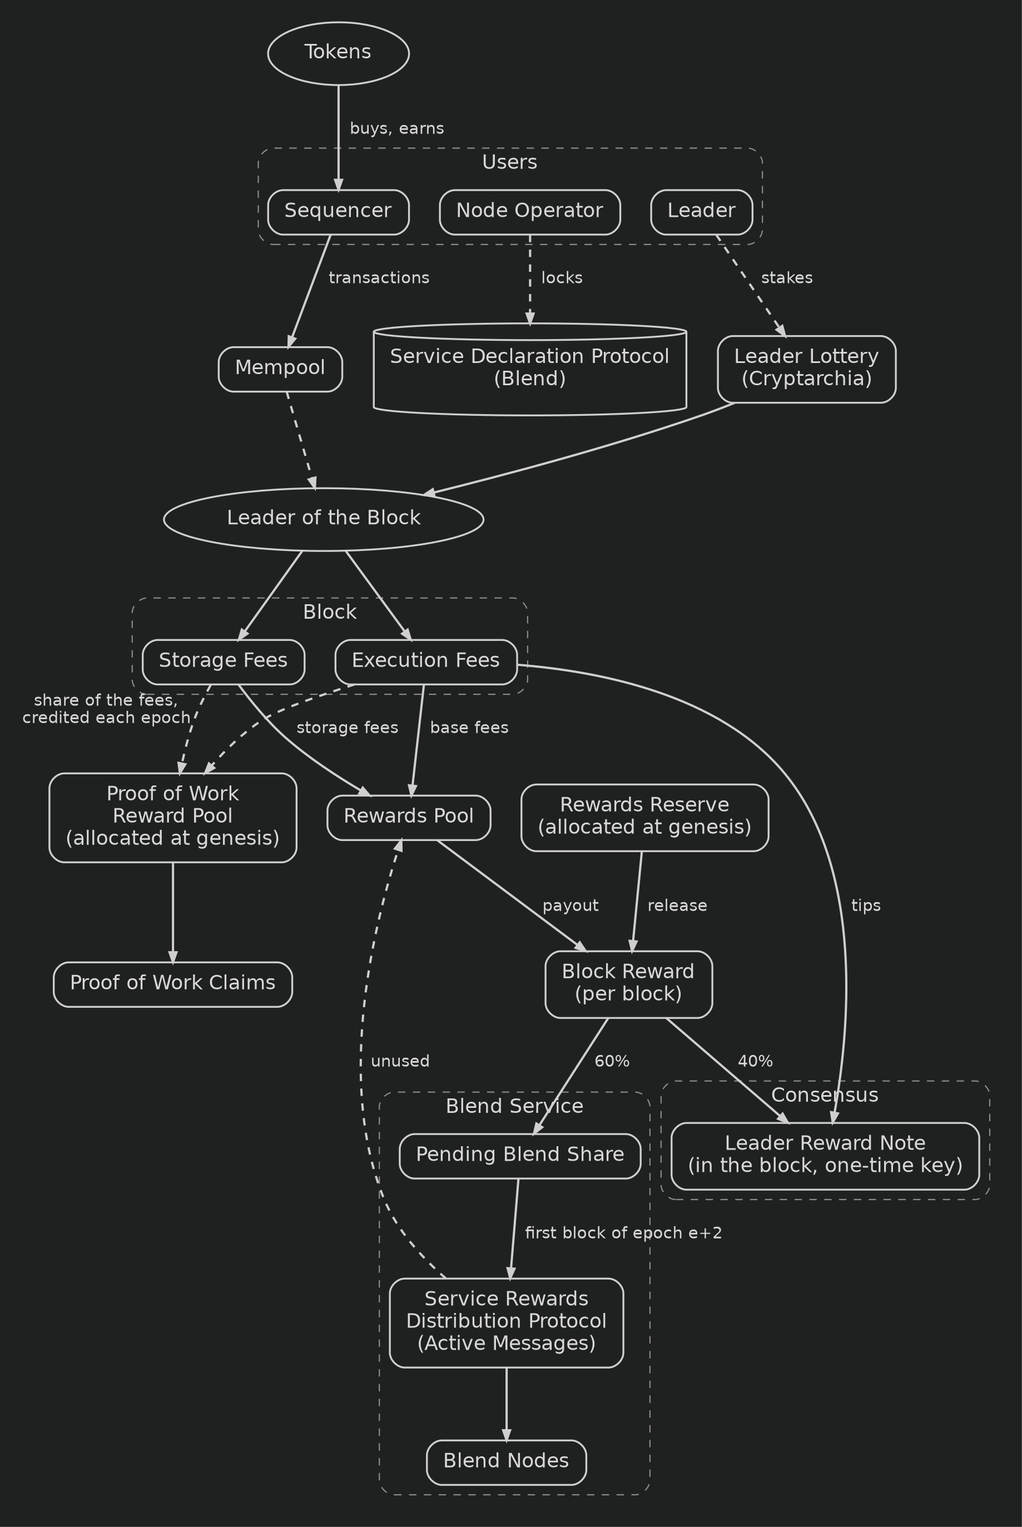
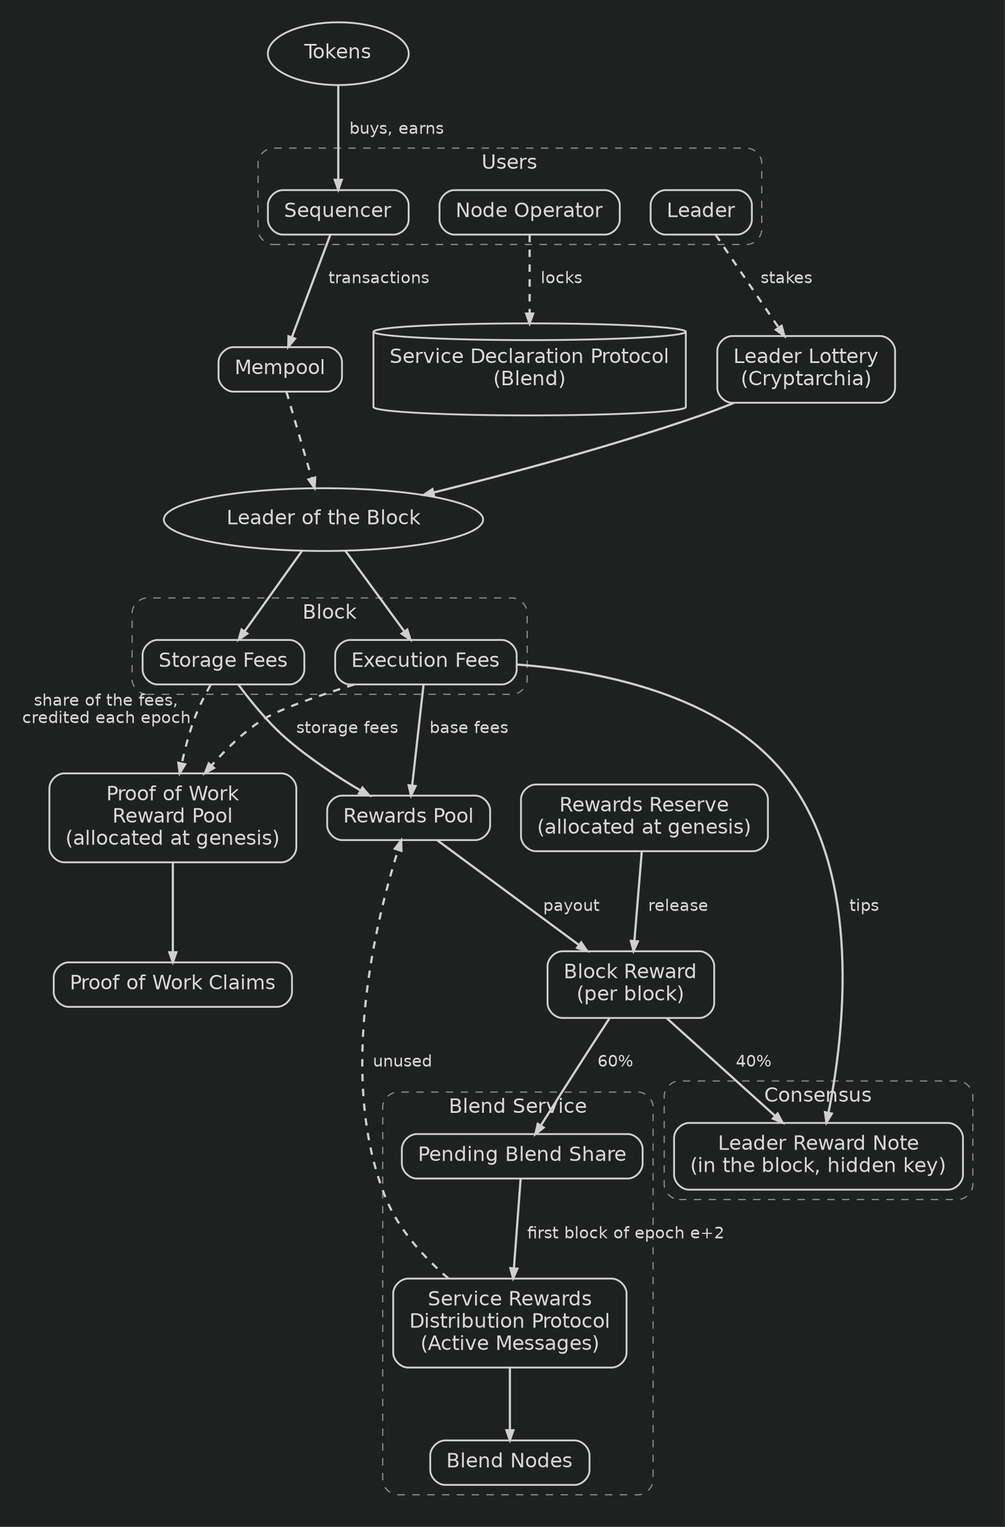
docs(blockchain): the reward commitment hides its key under an unpredictable nonce, and condemns only a confirmed body

diff --git a/docs/blockchain/raw/rfc/RFC-480-mantle-private-utxo-ledger.md b/docs/blockchain/raw/rfc/RFC-480-mantle-private-utxo-ledger.md
@@ -20,7 +20,7 @@
 | v12 | Builds on #503: every amount counts LEPTA, the token is LOGOS, the Block Rewards reference types its constants as 128-bit integers, and the revisions of Block Rewards, the Cryptoeconomics Overview and Total Stake Inference are renumbered past its own. The `zk_id` is a unique one-time random key, which the declaration does not prove | 2026-11-03 |
 | v13 | The Proof of Quota leader branch proves the note unspent at the freeze of the stake distribution. Genesis declarations consume no note, and Genesis checks the supply. A block above $`G_\text{max}`$ is invalid, and a proposal confirms its body root before verifying its uncles. A note set records its root only when a block appends to it, and every block records the eligible root. The Blend shares of the closed and of the current epoch are kept apart, what an epoch does not distribute returning to the reserve. `step_msg` hashes the channel, and the claim ticket has a DST | 2026-11-03 |
 | v14 | An inscription is a list of mini-blocks of steps, each step proven against its recent root and the buffer before its mini-block, in place of a `buffered` count on each step | 2026-11-04 |
-| v15 | The commitment and nullifier names are written in full, so that the root an Operation references is `commitment_root`, a note has a `NoteCommitment` and a `NoteNullifier`, and each notation is explained where it first appears. The message of a step holds the channel ID as two elements, its low and high 16 bytes, so that no two channels share a message. The overview figure shows the sequencer and the proof of work reward pool allocated at genesis. A declaration names in `note_pk` the key of its service note, which only builds the commitment, so that the stake can sit under a key the staker keeps offline. The Proof of Leadership derives the commitment of the leader reward note from the public `reward_value` and a private key and nonce the leader chooses freely, so that keys can be reused without losing funds or linking blocks: the header holds `reward_commitment` and `reward_value` and is 273 bytes, the proof verifies from the header alone, a value differing from the computed reward condemns the block, and a nonce derived from the secret key and the slot lets a wallet find its reward notes from its seed. A nonce that is public was rejected, since it would let anyone test a known key against the commitment | 2026-11-04 |
+| v15 | The commitment and nullifier names are written in full, so that the root an Operation references is `commitment_root`, a note has a `NoteCommitment` and a `NoteNullifier`, and each notation is explained where it first appears. The message of a step holds the channel ID as two elements, its low and high 16 bytes, so that no two channels share a message. The overview figure shows the sequencer and the proof of work reward pool allocated at genesis. A declaration names in `note_pk` the key of its service note, which only builds the commitment, so that the stake can sit under a key the staker keeps offline. The Proof of Leadership derives the commitment of the leader reward note from the public `reward_value` and a private key and nonce the leader chooses freely, so that keys can be reused without losing funds or linking blocks: the header holds `reward_commitment` and `reward_value` and is 273 bytes, the proof verifies from the header alone, a value differing from the computed reward condemns the block, and a nonce derived from the secret key and the slot lets a wallet find its reward notes from its seed. A nonce that is public was rejected, since anyone holding a key could test it against the commitment | 2026-11-04 |
 
 ## Reviewer Orientation
 
@@ -74,11 +74,11 @@ The `note_pk` only builds the commitment of the service note: no check reads it 
 
 The reward note of a block carries the block's own value and still does not link the leader to its spending: the spend reveals a nullifier and no commitment. The voucher set, the pooled leader reward and `LEADER_CLAIM` are retired. The block reward keeps averaging the pooled fees over the last 120 blocks, so a leader can barely steer its own reward with the fees it pays in its block. Every reward value is public and an `SDP_DECLARE` publishes the amount it stakes, so staking reward notes can link the blocks they were won in to the declaration.
 
-The Proof of Leadership derives the commitment of the reward note, and the header reveals only its value. A key and a nonce in the clear would force a wallet to manage a new key for every block: with a fixed nonce, reusing a key gives two rewards of the same value the same commitment, of which only one can be spent, and funds are lost. With the key and the nonce private, a leader can keep one key for all its rewards, which makes the wallet much simpler, and the chain does not show it. The value says nothing of the leader, since every node computes the reward.
+The Proof of Leadership derives the commitment of the reward note, and the header reveals only its value. A key and a nonce in the clear would force a wallet to manage a new key for every block: with a fixed nonce, reusing a key gives two rewards of the same value the same commitment, of which only one can be spent, and funds are lost. With the key private and the nonce private and unpredictable, a leader can keep one key for all its rewards, which makes the wallet much simpler, and the chain does not show it. The value says nothing of the leader, since every node computes the reward.
 
 The value sits in the header so that the proof verifies from the header alone, before the block is reconstructed and in a batch. It is still compared with the computed reward once the transactions have run, and a difference condemns the block, since `block_id` covers both the value and the transactions. The leader has to know the reward before proving, which is acceptable because it already proves once the body is fixed.
 
-The leader selects the nonce completely freely, and a repeated commitment is its own risk. The Wallet Technical Standard recommends deriving the nonce from the secret key and the slot, which gives each reward its own nonce and lets a wallet recovering from its seed recompute its commitments from the public values. Two public nonces were rejected: the slot, and a nonce from the entropy contribution revealed in the header. Either gives every note a distinct commitment, but with a public value and a public nonce anyone can test a known public key against a commitment, so a reused key would link its blocks. Binding the key to the note that won the lottery was not needed either: the circuit leaves the reward key unconstrained, so a leader can be paid under a key whose secret stays offline.
+The leader selects the nonce completely freely, and a repeated commitment is its own risk. The Wallet Technical Standard recommends deriving the nonce from the secret key and the slot, which gives each reward its own nonce and lets a wallet recovering from its seed recompute its commitments from the public values. Two public nonces were rejected: the slot, and a nonce from the entropy contribution revealed in the header. Either gives every note a distinct commitment, but with a public value and a public nonce, anyone holding a public key can test it against a commitment, so a reused key links its blocks for whoever has that key. Binding the key to the note that won the lottery was not needed either: the circuit leaves the reward key unconstrained, so a leader can be paid under a key whose secret stays offline.
 
 The proof of work claim stays as it is: it has no proof that could hide a key, so the miner throws away the mined key and transfers at once to a key it knows.
 

diff --git a/docs/blockchain/raw/bedrock-v1.1-block-construction.md b/docs/blockchain/raw/bedrock-v1.1-block-construction.md
@@ -373,7 +373,7 @@ The order is constrained as well as economical. [Block Header Validation](crypta
 
 If any of the above checks fail, the block proposal must be rejected. What the rejection establishes depends on which bytes the failed check read. `block_id` is computed from the 273-byte header without its proof of leadership, so the proof and every byte outside the header — `uncle_headers`, `references`, trailing bytes — can be altered in a copy without changing the `block_id` it names, and none of the bytes outside the header are authenticated until `header.body_root` is confirmed in step 3. A failure detected in them is a property of the received copy, not of the block: a frame that does not decode (step 1), an invalid proof of leadership (step 2) and a failure to reconstruct (step 3) each discard the copy **without** recording a verdict against `block_id`, on this path as on [every other](cryptarchia-v1-protocol.md#block-header-validation). Only a failure implied by the bytes that `block_id` covers, directly or through `header.body_root` (a wrong version, a slot that does not follow the parent, an invalid uncle entry, a `reward_value` differing from the computed reward), condemns the block the header names, identically at every node. Treating any of the former as final would let an attacker censor a genuine block by circulating tampered copies of it: one altered proof, one substituted uncle entry, or one altered reference, leaves `block_id` unchanged. The mempool-dependence of step 3 adds one further distinction — a reference that fails to resolve locally may resolve at another node — described in [Reference Resolution](#reference-resolution). Independently of what a rejection establishes about the block, **nothing of the proposal is executed**. The state progression the pass builds is a working one, adopted as the new chain state only once the last transaction of the block has validated and the leader reward has been found equal to `reward_value`: a single failed check anywhere in the block, in any transaction, in any Operation of any transaction, invalidates the whole block, so a node rejecting it holds exactly the state it held before it started processing it.
 
-This ordering is specific to the proposal path. A block received in full through chain synchronisation carries its transactions from the start, so [Block Header Validation](cryptarchia-v1-protocol.md#block-header-validation) applies to it as written, with no ordering constraint, step 6 to its transactions and step 7 to its leader reward.
+This ordering is specific to the proposal path. A block received in full through chain synchronisation carries its transactions from the start, so [Block Header Validation](cryptarchia-v1-protocol.md#block-header-validation) applies to it as written, with no ordering constraint, step 6 to its transactions and step 7 to its leader reward. Step 7 condemns the block only once rule 4 has confirmed its body: transactions that do not reproduce `header.body_root` are a bad copy whatever reward they compute, so a peer serving a genuine header with a transaction dropped cannot get the genuine `block_id` condemned.
 
 ## Block Execution
 
@@ -393,7 +393,7 @@ Given a `ValidBlock` that has successfully passed proposal validation, the node 
 
 Steps 1 and 2 read the epoch, the slot and the state of the [Service Declaration Protocol](bedrock-service-declaration-protocol.md) and of the pending withdrawals, never the transactions of the block, which is what lets them run before those transactions are validated.
 
-The leader reward of step 4 is the one defined in [Blend Service and Consensus Leaders](overview-cryptoeconomics.md#blend-service-and-consensus-leaders), computed from the [Block Rewards](block-rewards.md) of the block and the Execution market tips of its transactions, which is why it comes after them. It is paid as a single note, `Note(reward_value, reward_nonce, reward_public_key)`, whose commitment is the `reward_commitment` of the block: the [Proof of Leadership](cryptarchia-proof-of-leadership.md#leader-reward-note) proves that the commitment opens to `reward_value` and to a key and a nonce only the leader knows. The commitment is appended to the ledger note set, `LEDGER_SET`, of the [Mantle Ledger](bedrock-v1.1-mantle-specification.md#ledger):
+The leader reward of step 4 is the one defined in [Blend Service and Consensus Leaders](overview-cryptoeconomics.md#blend-service-and-consensus-leaders), computed from the [Block Rewards](block-rewards.md) of the block and the Execution market tips of its transactions, which is why it comes after them. It is paid as a single note, `Note(reward_value, reward_nonce, reward_public_key)`, whose commitment is the `reward_commitment` of the block: the [Proof of Leadership](cryptarchia-proof-of-leadership.md#leader-reward-note) proves that the commitment opens to `reward_value` and to a key and a nonce the block does not reveal. The commitment is appended to the ledger note set, `LEDGER_SET`, of the [Mantle Ledger](bedrock-v1.1-mantle-specification.md#ledger):
 
 ```python
 assert block.header.proof_of_leadership.reward_value == get_leader_reward(block)
@@ -402,7 +402,7 @@ ledger.sets[LEDGER_SET].execute_adding([block.header.proof_of_leadership.reward_
 
 The block reveals the value of the reward and its commitment, and neither its public key nor its nonce. Spending the note reveals neither its commitment nor its value, so the leader cannot be linked to the block through its reward, as long as the leader does not publish its value. An `SDP_DECLARE` publishes the amount it stakes, the sum of the notes it consumes, and every reward value is public: staking reward notes, alone or with notes of known value, can link the blocks they were won in to the declaration.
 
-The leader chooses `reward_public_key` and `reward_nonce` freely, and can reuse a key for any number of blocks without linking them, since the commitment hides it. Two rewards of the same value under the same key and nonce are identical notes, of which only one can be spent ([Note Commitment and Nullifier](bedrock-v1.1-mantle-specification.md#note-commitment-and-nullifier)), and they show as a repeated commitment. Avoiding this is up to the leader, and the [Wallet Technical Standard](wallet-technical-standard.md#leader-reward-notes) recommends a nonce that does.
+The leader chooses `reward_public_key` and `reward_nonce` freely. The commitment hides the key as long as the nonce is private and unpredictable, and a leader can then reuse a key for any number of blocks without linking them. Two rewards of the same value under the same key and nonce are identical notes, of which only one can be spent ([Note Commitment and Nullifier](bedrock-v1.1-mantle-specification.md#note-commitment-and-nullifier)), and they show as a repeated commitment. Avoiding this is up to the leader, and the [Wallet Technical Standard](wallet-technical-standard.md#leader-reward-notes) recommends a nonce that does.
 
 The five steps stand or fall together, on a block that has validated in full: a block that fails validation at any point is not executed at all.
 

diff --git a/docs/blockchain/raw/cryptarchia-proof-of-leadership.md b/docs/blockchain/raw/cryptarchia-proof-of-leadership.md
@@ -241,7 +241,7 @@ def pol_msg(header: Header) -> zkhash:
 The leader reward of a block is paid as a note the proof derives the commitment of ([Block Execution](bedrock-v1.1-block-construction.md#block-execution)), so that the block names the note without revealing who holds it.
 
 - `reward_value` and `reward_commitment` are public, in the header. The value says nothing of the leader, since every node computes the reward of a block.
-- `reward_public_key` and `reward_nonce` stay private. The commitment hides them, so the chain shows neither the key a reward is paid to nor whether two blocks pay the same key. The nonce has to stay private for this to hold: given the public value and a public nonce, anyone could test a known public key against the commitment.
+- `reward_public_key` and `reward_nonce` are not revealed. As long as the nonce is private and unpredictable, the commitment hides the key, so the chain shows neither the key a reward is paid to nor whether two blocks pay the same key. Given the public value and a nonce they can guess, anyone holding a public key can test it against the commitment.
 - `reward_value` is in the header so that the proof verifies from the header alone, before the block is reconstructed and in a batch with other proofs of leadership. It is compared with the computed reward once the transactions have run ([Block Proposal Validation](bedrock-v1.1-block-construction.md#block-proposal-validation)), and a block whose value differs from its reward is invalid whatever its proof says.
 - `reward_value` needs no range check in the circuit. It is read from 8 bytes of the header, so it is below $`2^{64}`$, and a note enters the ledger only with the value of the computed reward.
 - The circuit does not constrain `reward_public_key` and `reward_nonce`, which the leader chooses freely. A key can be reused for any number of blocks. Two rewards of the same value under the same key and nonce are identical notes, of which only one can be spent, which is the risk of the leader alone. The [Wallet Technical Standard](wallet-technical-standard.md#leader-reward-notes) recommends a nonce that avoids it.

diff --git a/docs/blockchain/raw/cryptarchia-v1-protocol.md b/docs/blockchain/raw/cryptarchia-v1-protocol.md
@@ -456,7 +456,7 @@ We say $`\textbf{valid\_header}(B)`$ returns True if all of the following constr
 
   Every input to these checks comes from the chain of $`B`$ or from the carried entry itself, both of which any node validating $`B`$ necessarily has — the entries travel inside $`B`$ and are committed by its $`body\_root`$. Validity is therefore a function of the block and the chain it extends alone, so all nodes agree on it and an adversary influencing what nodes know of forks cannot influence block inclusion.
 
-The block ID commits neither to the proof of leadership of a block nor to its Operation proofs, and a copy of a block can differ in them or in its body. A block failing rule 4, rule 9 or an Operation proof is therefore a bad copy on every path, synchronization included: the node discards it without recording a verdict against its block ID. The block ID does commit to `reward_value` and, through $`body\_root`$, to the transactions, so a block whose `reward_value` differs from its computed leader reward is condemned ([Block Proposal Validation](bedrock-v1.1-block-construction.md#block-proposal-validation)).
+The block ID commits neither to the proof of leadership of a block nor to its Operation proofs, and a copy of a block can differ in them or in its body. A block failing rule 4, rule 9 or an Operation proof is therefore a bad copy on every path, synchronization included: the node discards it without recording a verdict against its block ID. The block ID does commit to `reward_value` and, through $`body\_root`$, to the transactions, so once rule 4 has confirmed its body, a block whose `reward_value` differs from its computed leader reward is condemned ([Block Proposal Validation](bedrock-v1.1-block-construction.md#block-proposal-validation)).
 
 ### Chain Maintenance
 

diff --git a/docs/blockchain/raw/blend-protocol.md b/docs/blockchain/raw/blend-protocol.md
@@ -39,7 +39,7 @@
 | 1.6.2 | The node count and the neighbor distinction read the `provider_id`s of the Blend declarations, which the Service Declaration Protocol keeps unique | 2026-10-27 |
 | 1.7.0 | Derived the observation window $`W`$ from cover traffic in place of the maximal release delay. | 2026-10-29 |
 | 1.8.0 | Refused a neighbor closed as not live for $`W`$ rounds, restarting its liveness count, in place of shutting it out for the rest of the epoch. | 2026-10-30 |
-| 1.8.1 | Updated the encapsulation-overhead calculation to the `Max_Payload_Length` of 17755 bytes, following the removal of the leader key and of the signatures from block proposals and the reward value of their headers. The leader reward is referenced in [Block Execution](bedrock-v1.1-block-construction.md#block-execution). The base reward is rounded down, and none is calculated without an activity proof | 2026-10-14 |
+| 1.8.1 | Updated the encapsulation-overhead calculation to the `Max_Payload_Length` of 17755 bytes, following the removal of the leader key and of the signatures from block proposals, and the addition of the reward value to their headers. The leader reward is referenced in [Block Execution](bedrock-v1.1-block-construction.md#block-execution). The base reward is rounded down, and none is calculated without an activity proof | 2026-10-14 |
 
 # Introduction
 

diff --git a/docs/blockchain/raw/wallet-technical-standard.md b/docs/blockchain/raw/wallet-technical-standard.md
@@ -225,7 +225,7 @@ def on_nullifier_inserted(tracked: TrackedLowLeaf, inserted_nullifier: NoteNulli
 
 ### Leader Reward Notes
 
-The leader of a block chooses the public key and the nonce of its reward note ([Block Execution](bedrock-v1.1-block-construction.md#block-execution)). A wallet can receive all its rewards under one public key: the commitment hides the key, so reusing it does not link the blocks. Two rewards of the same value under the same key and nonce are identical notes, of which only one can be spent. A wallet should therefore derive the nonce from the secret key `sk` of that public key and the slot of the block, a slot holding at most one block of a chain:
+The leader of a block chooses the public key and the nonce of its reward note ([Block Execution](bedrock-v1.1-block-construction.md#block-execution)). As long as the nonce is private and unpredictable, the commitment hides the key, so a wallet can receive all its rewards under one public key without linking the blocks. Two rewards of the same value under the same key and nonce are identical notes, of which only one can be spent. A wallet should therefore derive the nonce from the secret key `sk` of that public key and the slot of the block, a slot holding at most one block of a chain:
 
 ```python
 def derive_reward_nonce(sk: ZkSecretKey, slot: int) -> NoteNonce:

diff --git a/docs/blockchain/raw/payload-formatting.md b/docs/blockchain/raw/payload-formatting.md
@@ -28,7 +28,7 @@
 | 1.1.0 | Updated `Max_Body_Length` to 34574 bytes, the maximum block proposal size once a proposal carries the signed headers of the uncles it references (see [Block Construction, Validation and Execution](bedrock-v1.1-block-construction.md)). | 2026-08-06 |
 | 1.1.1 | Updated `Max_Body_Length` to 18192 bytes, following the compression of transaction references to 16-byte prefixes and their encoding as a variable-length list (see [Block Construction, Validation and Execution](bedrock-v1.1-block-construction.md)). | 2026-08-18 |
 | 1.2.0 | Add the transaction `body_type`, bound a carried transaction to `Max_Body_Length`, and state the fixed-length padding cost it inherits | 2026-09-08 |
-| 1.2.1 | Updated `Max_Body_Length` to 17752 bytes, following the removal of the leader key and of the signatures from block proposals and the reward value of their headers (see [Block Construction, Validation and Execution](bedrock-v1.1-block-construction.md#block-proposal)) | 2026-10-14 |
+| 1.2.1 | Updated `Max_Body_Length` to 17752 bytes, following the removal of the leader key and of the signatures from block proposals, and the addition of the reward value to their headers (see [Block Construction, Validation and Execution](bedrock-v1.1-block-construction.md#block-proposal)) | 2026-10-14 |
 
 # Introduction
 

diff --git a/docs/blockchain/raw/message-formatting.md b/docs/blockchain/raw/message-formatting.md
@@ -27,7 +27,7 @@
 | 1.0.0 | Initial revision. | 2026-04-09 |
 | 1.0.1 | Corrected `Max_Payload_Length` to 34577 bytes, so that it again matches the `Max_Body_Length` of [Payload Formatting](payload-formatting.md) plus the 3-byte payload header. | 2026-08-06 |
 | 1.0.2 | Expressed `Max_Payload_Length` as `Max_Body_Length + 3` rather than a literal, so that it tracks the payload body size automatically; it is 18195 bytes at the `Max_Body_Length` that follows from the compressed transaction references of [Block Construction, Validation and Execution](bedrock-v1.1-block-construction.md). | 2026-08-18 |
-| 1.0.3 | Updated the derived `Max_Payload_Length` to 17755 bytes, following the removal of the leader key and of the signatures from block proposals and the reward value of their headers | 2026-10-14 |
+| 1.0.3 | Updated the derived `Max_Payload_Length` to 17755 bytes, following the removal of the leader key and of the signatures from block proposals, and the addition of the reward value to their headers | 2026-10-14 |
 
 # Introduction
 
